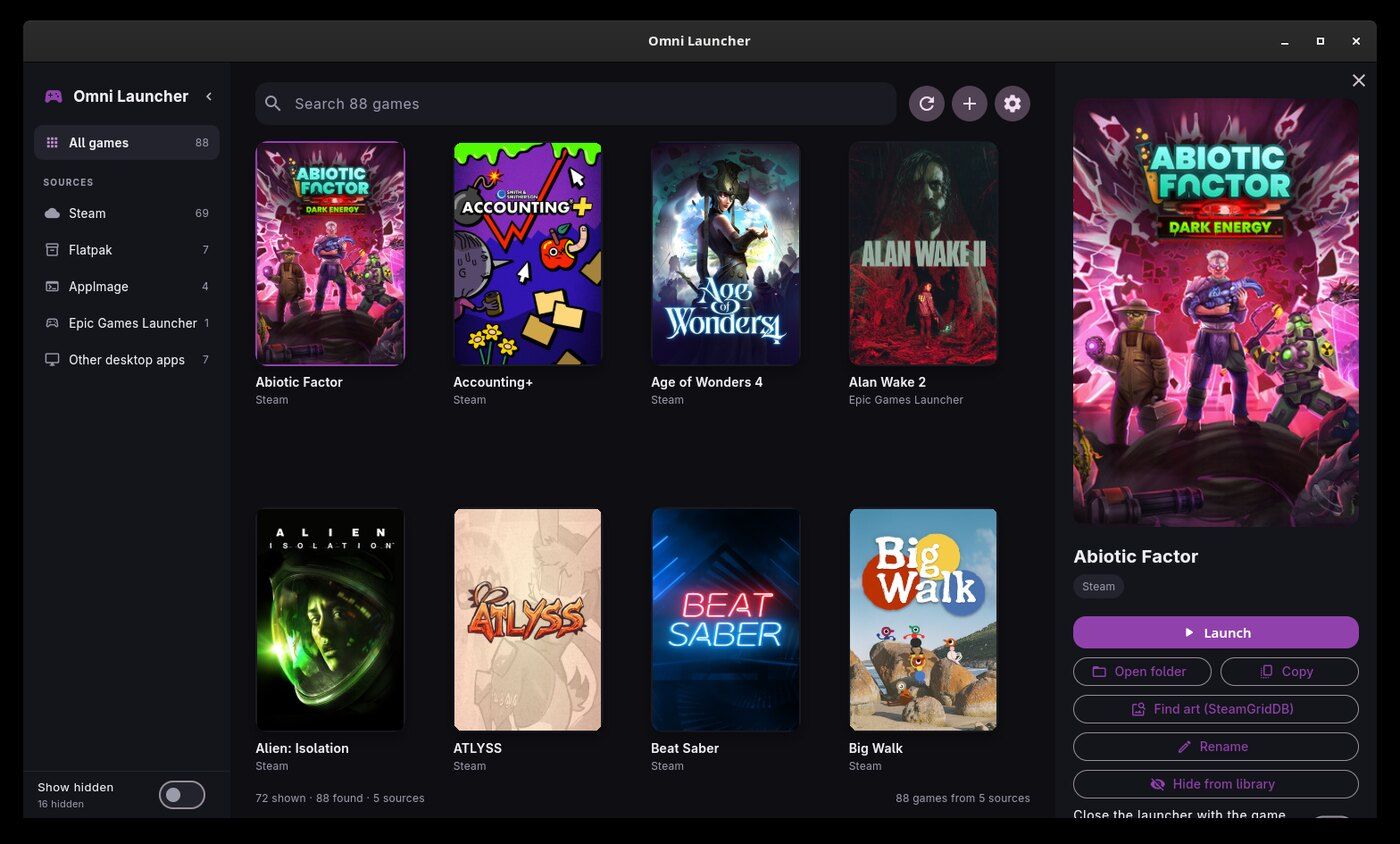
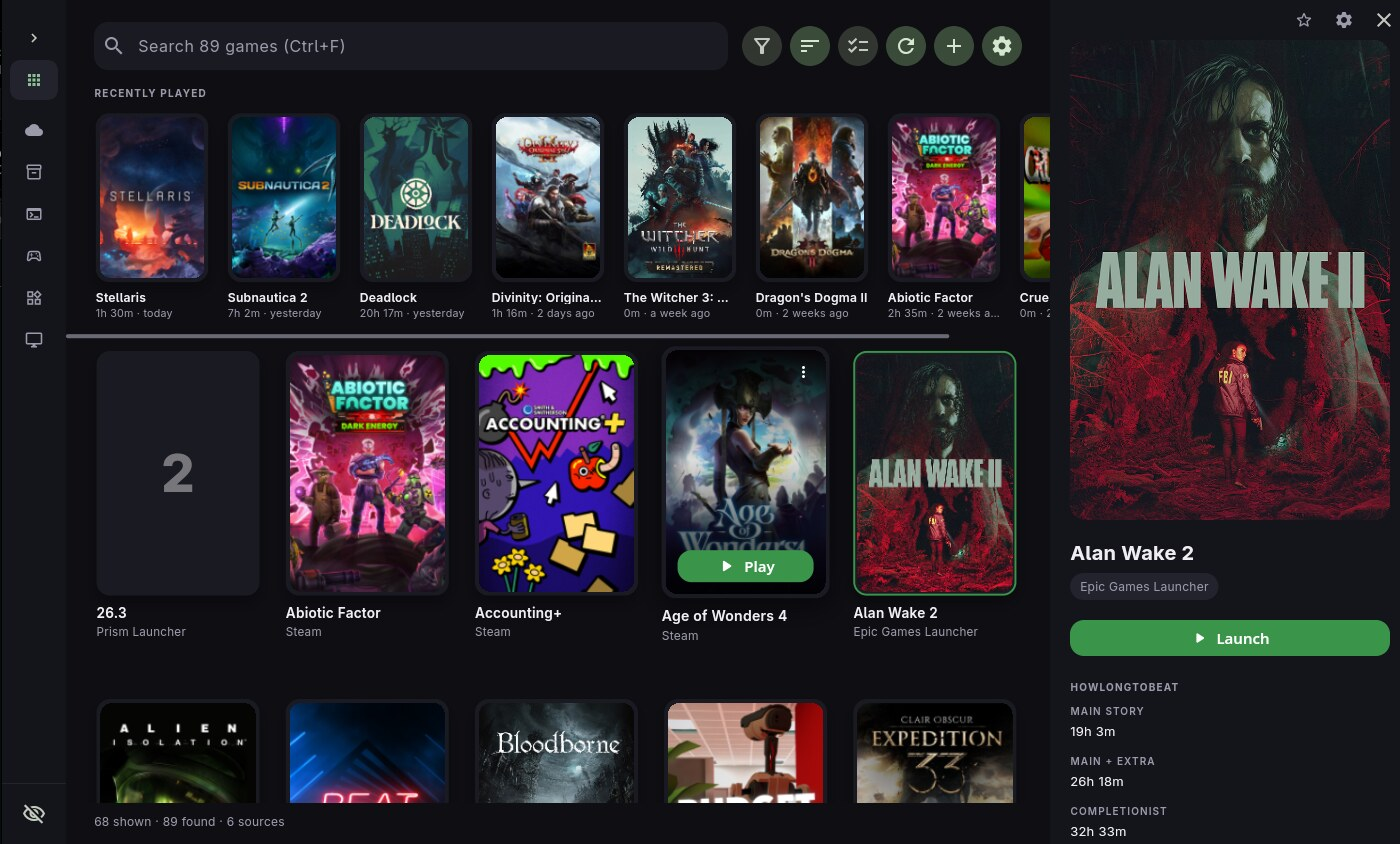
Screenshots: the shelf, the cog menu and the current settings
The library image predates the recently played shelf and the detail image
showed the panel's old row of buttons, both replaced by the cog menu. Fresh
1400x844 captures from 0.3.8, and the README names the new shelf action and
the recent_hidden config it writes.

diff --git a/README.md b/README.md
@@ -179,19 +179,20 @@ chips under it remove one at a time.
 
 The detail panel keeps *Launch* (or *Stop*) and the game's facts to itself;
 *Open folder*, *Copy* (the exact argv, launch options included), *Launch
-options…*, *Edit tags…*, *Find art*, *Rename*, *Launch log*, *Hide* and *Remove*
-live behind the cog in its header. *Close the launcher with the game* is a
-launcher-wide choice, so it lives in Settings, not on a single game. A game that
-went missing keeps its panel and gains *Not installed*, *Open store page* and
-*Remove from library*. Under the facts, each plugin gets a section with what it
-answered and any actions it may run; the button that asks it is there until it
-has an answer.
+options…*, *Edit tags…*, *Find art*, *Rename*, *Launch log*, *Remove from
+recently played* (or *Show in recently played* when it was taken off the shelf),
+*Hide* and *Remove* live behind the cog in its header. *Close the launcher with
+the game* is a launcher-wide choice, so it lives in Settings, not on a single
+game. A game that went missing keeps its panel and gains *Not installed*, *Open
+store page* and *Remove from library*. Under the facts, each plugin gets a
+section with what it answered and any actions it may run; the button that asks
+it is there until it has an answer.
 
 ## Configuration and files
 
 | Path | Contents |
 | --- | --- |
-| `~/.config/omnilauncher-flutter/config.json` | hidden games, AppImage folders, hand-added games, appearance, the folded sidebar, SteamGridDB key, pinned artwork, renames, favorites, sort order, tags, launch options, forgotten games, which launchers close with their games, plugin permissions, window size and behaviour |
+| `~/.config/omnilauncher-flutter/config.json` | hidden games, AppImage folders, hand-added games, appearance, the folded sidebar, SteamGridDB key, pinned artwork, renames, favorites, sort order, tags, launch options, forgotten games, games taken off the recently played shelf, which launchers close with their games, plugin permissions, window size and behaviour |
 | `~/.cache/omnilauncher-flutter/games.json` | last scan, for an instant start |
 | `~/.local/share/omnilauncher-flutter/covers/` | downloaded Steam capsules and picked SteamGridDB art |
 | `~/.local/state/omnilauncher-flutter/launch.log` | every launch, with argv, plus the game's own output |
